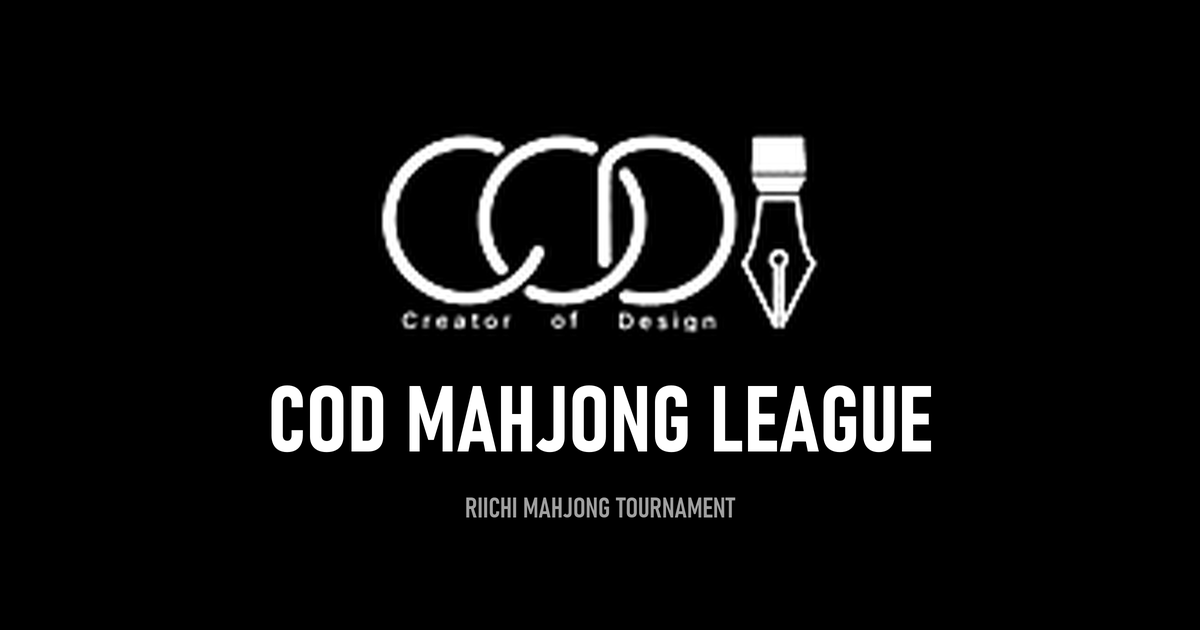
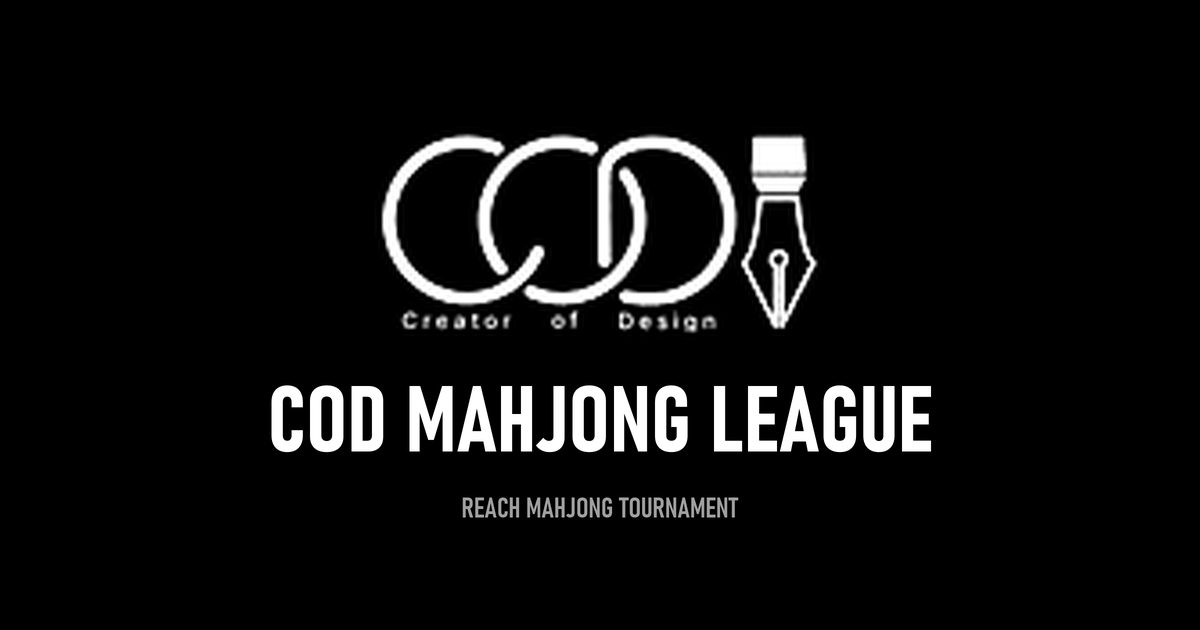
Riichi → Reach 표기 수정 (푸터·미리보기 이미지)

Changed region(s): [[0.37, 0.7841, 0.6167, 0.8444]]

diff --git a/index.html b/index.html
@@ -12,7 +12,7 @@
   <meta property="og:title" content="COD Mahjong League · 동아리 리치마작 대회" />
   <meta property="og:description" content="실시간 랭킹 · 대국 기록 · 순위점 계산기 | 2026. 11. 16 – 12. 04" />
   <meta property="og:url" content="https://cod-mahjong.github.io/cod-mahjong/" />
-  <meta property="og:image" content="https://cod-mahjong.github.io/cod-mahjong/og-image.png?v=3" />
+  <meta property="og:image" content="https://cod-mahjong.github.io/cod-mahjong/og-image.png?v=4" />
   <meta property="og:image:width" content="1200" />
   <meta property="og:image:height" content="630" />
   <meta property="og:locale" content="ko_KR" />
@@ -23,7 +23,7 @@
   <link rel="preconnect" href="https://fonts.googleapis.com" />
   <link rel="preconnect" href="https://fonts.gstatic.com" crossorigin />
   <link href="https://fonts.googleapis.com/css2?family=Noto+Sans+KR:wght@400;500;700;900&family=Noto+Sans:wght@700;900&display=swap" rel="stylesheet" />
-  <link rel="stylesheet" href="style.css?v=20261115034127" />
+  <link rel="stylesheet" href="style.css?v=20261115034304" />
 </head>
 <body>
   <div class="frame" aria-hidden="true"></div>
@@ -156,7 +156,7 @@
     <div class="footer-inner">
       <img class="footer-mark" src="img/cod-logo.png" alt="COD" />
       <div class="footer-logo" id="footer-title"></div>
-      <p>Riichi Mahjong Tournament</p>
+      <p>Reach Mahjong Tournament</p>
       <button id="admin-link" class="admin-link">운영자</button>
     </div>
   </footer>
@@ -222,8 +222,8 @@
 
   <div id="toast" class="toast" role="status" aria-live="polite"></div>
 
-  <script src="img/players/photos.js?v=20261115034127"></script>
-  <script src="config.js?v=20261115034127"></script>
-  <script src="app.js?v=20261115034127"></script>
+  <script src="img/players/photos.js?v=20261115034304"></script>
+  <script src="config.js?v=20261115034304"></script>
+  <script src="app.js?v=20261115034304"></script>
 </body>
 </html>
